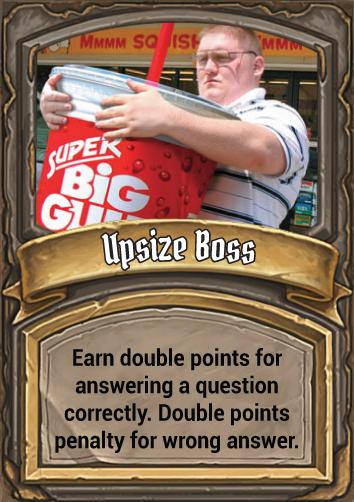
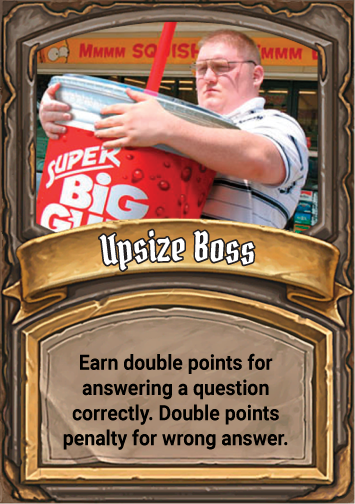
update cards and password functionality

diff --git a/css/style.css b/css/style.css
@@ -1,2 +1,3 @@
-.description,.control{text-align:center}.element-item img{margin:5px}.grid{margin:auto;width:210px}@media (min-width: 466px){.grid{width:420px}}@media (min-width: 675px){.grid{width:630px}}@media (min-width: 992px){.grid{width:840px}}@media (min-width: 1200px){.grid{width:1050px}}#cards .btn{margin-bottom:10px}.circle{position:relative;width:300px;margin:0 auto;margin-top:20px}.circle #timer{position:absolute;top:50%;left:50%;-webkit-transform:translateY(-50%) translateX(-50%);transform:translateY(-50%) translateX(-50%)}#bingo .carousel-control{width:50px}#bingo .carousel-control>.fa{position:absolute;top:200px;color:#00bc8c;text-shadow:none;font-size:2em}#bingo .carousel-control.right,#bingo .carousel-control.left{background-image:none}#bingo .carousel-control.right>.fa{right:15px}#bingo .carousel-control.left>.fa{left:15px}#bingo .question-container{width:80%;margin:0 auto;min-height:300px;font-size:23px;padding:20px}#bingo .start-bingo{text-align:center;padding:60px;height:300px}#bingo .start-bingo>img{display:inline;width:50%}#last-round .modal-dialog{font-family:'Montserrat', sans-serif;width:100%}@media (min-width: 481px){#last-round .modal-dialog{width:90%}}@media (min-width: 768px){#last-round .modal-dialog{width:80%}}@media (min-width: 992px){#last-round .modal-dialog{width:70%}}@media (min-width: 1200px){#last-round .modal-dialog{width:60%}}#last-round .modal-content{box-shadow:none;border-radius:0;background:transparent;border-width:0}#last-round .modal-body{color:#fff;font-size:26px;text-align:left}@media (max-width: 580px){#last-round .modal-body{font-size:16px}}#last-round .modal-body>.alert{margin-bottom:0;border-bottom-right-radius:0;border-bottom-left-radius:0}#last-round .modal-body hr{border-color:#636363}#last-round .modal-footer{border:none}.modal-backdrop{background-color:#000000}.modal-backdrop.in{opacity:0.8}.title{position:relative;padding:30px;padding-right:80px;margin-top:0}.title:before{content:"";display:block;position:absolute;top:0;left:0;right:0;bottom:0;background:rgba(0,0,0,0.5)}.title span{position:relative}.title .score,.title .scored{position:absolute;right:15px;top:50%;-webkit-transform:translateY(-50%);transform:translateY(-50%);font-weight:bold;background:#F39C12;border-radius:50%;line-height:50px;width:50px;text-align:center}.title.bg1{background:url(../img/bg/1.png) 50% 0 no-repeat;background-size:cover}.title.bg2{background:url(../img/bg/2.png) 50% 0 no-repeat;background-size:cover}.title.bg3{background:url(../img/bg/3.png) 50% 0 no-repeat;background-size:cover}.title.bg4{background:url(../img/bg/4.png) 50% 0 no-repeat;background-size:cover}.multiplechoices{list-style-type:lower-latin}.multiplechoices label{display:list-item}.multiplechoices input[type=checkbox]{display:none}.multiplechoices input[type=checkbox].true:checked+span{color:#00bc8c}.multiplechoices input[type=checkbox].false:checked+span{color:#E74C3C;text-decoration:line-through}.chance-options ul{-webkit-columns:3;-moz-columns:3;columns:3;color:#fff}.chance-options li{font-size:1.3em}.chance-options li:first-child{margin-top:0}.chance-options input[type=checkbox]{margin-top:6px}.type{text-transform:uppercase}.info{display:block;margin-top:10px;font-size:18px}.info .one,.info .two{color:#fff;display:inline-block;background:#375a7f;padding:5px 10px;border-radius:3px}.info .one:empty,.info .two:empty{padding:0}#last-round .btnRound{border-radius:50%;padding:0;line-height:61px;width:65px}@media (max-width: 640px){#last-round .btnRound{line-height:48px;width:52px}}@media (max-width: 510px){#last-round>br{display:none}}.retain{background:#00bc8c !important}.passed{position:relative;overflow:hidden}.passed:after{content:'\f00c';font-family:'FontAwesome';display:block;position:absolute;top:50%;left:50%;background:inherit;-webkit-transform:translateX(-50%) translateY(-50%);transform:translateX(-50%) translateY(-50%);width:50px;line-height:50px;border-radius:50%;font-size:1.6em}.question>img{padding-right:10px;max-width:100%;height:auto}@media (max-width: 480px){.question>img{padding:0;width:100%;height:auto}}label:hover{cursor:pointer}#bonus{font-size:1.6em}#bonus .modal-body{text-align:left}.cardslot{text-align:center}#bonus .modal-header{color:#fff;background:#F39C12;border-bottom:none}#bonus .dice{height:250px;background:url(../img/bg/dice.png) no-repeat 50% 0;background-size:cover;margin:-20px;margin-bottom:20px}.logo{margin-top:30px;margin-bottom:30px}
[1 lines of base64/hex data omitted]
+.description,.control{text-align:center}.element-item img{margin:5px}.grid{margin:auto;width:210px}@media (min-width: 466px){.grid{width:420px}}@media (min-width: 675px){.grid{width:630px}}@media (min-width: 992px){.grid{width:840px}}@media (min-width: 1200px){.grid{width:1050px}}#cards .btn{margin-bottom:10px}.circle{position:relative;width:300px;margin:0 auto;margin-top:20px}.circle #timer{position:absolute;top:50%;left:50%;-webkit-transform:translateY(-50%) translateX(-50%);transform:translateY(-50%) translateX(-50%)}#bingo .carousel-control{width:50px}#bingo .carousel-control>.fa{position:absolute;top:200px;color:#00bc8c;text-shadow:none;font-size:2em}#bingo .carousel-control.right,#bingo .carousel-control.left{background-image:none}#bingo .carousel-control.right>.fa{right:15px}#bingo .carousel-control.left>.fa{left:15px}#bingo .question-container{width:80%;margin:0 auto;min-height:300px;font-size:23px;padding:20px}#bingo .start-bingo{height:300px}#bingo .start-bingo>img{margin-top:30px}@media (max-width: 991px){#bingo .start-bingo>img{width:80%}}#last-round .modal-dialog{font-family:'Montserrat', sans-serif;width:100%}@media (min-width: 481px){#last-round .modal-dialog{width:90%}}@media (min-width: 768px){#last-round .modal-dialog{width:80%}}@media (min-width: 992px){#last-round .modal-dialog{width:70%}}@media (min-width: 1200px){#last-round .modal-dialog{width:60%}}#last-round .modal-content{box-shadow:none;border-radius:0;background:transparent;border-width:0}#last-round .modal-body{color:#fff;font-size:26px;text-align:left}@media (max-width: 580px){#last-round .modal-body{font-size:16px}}#last-round .modal-body>.alert{margin-bottom:0;border-bottom-right-radius:0;border-bottom-left-radius:0}#last-round .modal-body hr{border-color:#636363}#last-round .modal-footer{border:none}.modal-backdrop{background-color:#000000}.modal-backdrop.in{opacity:0.8}.title{position:relative;padding:30px;padding-right:80px;margin-top:0}.title:before{content:"";display:block;position:absolute;top:0;left:0;right:0;bottom:0;background:rgba(0,0,0,0.5)}.title span{position:relative}.title .score,.title .scored{position:absolute;right:15px;top:50%;-webkit-transform:translateY(-50%);transform:translateY(-50%);font-weight:bold;background:#F39C12;border-radius:50%;line-height:50px;width:50px;text-align:center}.title.bg1{background:url(../img/bg/1.png) 50% 0 no-repeat;background-size:cover}.title.bg2{background:url(../img/bg/2.png) 50% 0 no-repeat;background-size:cover}.title.bg3{background:url(../img/bg/3.png) 50% 0 no-repeat;background-size:cover}.title.bg4{background:url(../img/bg/4.png) 50% 0 no-repeat;background-size:cover}.multiplechoices{list-style-type:lower-latin}.multiplechoices label{display:list-item}.multiplechoices input[type=checkbox]{display:none}.multiplechoices input[type=checkbox].true:checked+span{color:#00bc8c}.multiplechoices input[type=checkbox].false:checked+span{color:#E74C3C;text-decoration:line-through}.chance-options ul{-webkit-columns:3;-moz-columns:3;columns:3;color:#fff}.chance-options li{font-size:1.3em}.chance-options li:first-child{margin-top:0}.chance-options input[type=checkbox]{margin-top:6px}.type{text-transform:uppercase}.info{display:block;margin-top:10px;font-size:18px}.info .one,.info .two{color:#fff;display:inline-block;background:#375a7f;padding:5px 10px;border-radius:3px}.info .one:empty,.info .two:empty{padding:0}#last-round .btnRound{border-radius:50%;padding:0;line-height:61px;width:65px}@media (max-width: 640px){#last-round .btnRound{line-height:48px;width:52px}}@media (max-width: 510px){#last-round>br{display:none}}.retain{background:#00bc8c !important}.passed{position:relative;overflow:hidden}.passed:after{content:'\f00c';font-family:'FontAwesome';display:block;position:absolute;top:50%;left:50%;background:inherit;-webkit-transform:translateX(-50%) translateY(-50%);transform:translateX(-50%) translateY(-50%);width:50px;line-height:50px;border-radius:50%;font-size:1.6em}.question>img{padding-right:10px;max-width:100%;height:auto}@media (max-width: 480px){.question>img{padding:0;width:100%;height:auto}}label:hover{cursor:pointer}#bonus{font-size:1.6em}#bonus .modal-body{text-align:left}.cardslot{text-align:center}#bonus .modal-header{color:#fff;background:#F39C12;border-bottom:none}#bonus .dice{height:250px;background:url(../img/bg/dice.png) no-repeat 50% 0;background-size:cover;margin:-20px;margin-bottom:20px}.logo{margin-top:30px;margin-bottom:30px}
+
[1 lines of base64/hex data omitted]

diff --git a/_layouts/default.html b/_layouts/default.html
@@ -14,7 +14,7 @@
       .hide{
         display:block!important;
       }
-      .mcq .true + span, .truefalse .true + span{
+      .mcq .true + span, .truefalse .true + span, .multiplechoices .true + span{
         color:#00bc8c!important;
       }
       .hidden-answer{
@@ -24,7 +24,29 @@
   {% endif %}
 </head>
 <body>
-  {{content}}
+  <div class="container">
+    <div class="row">
+      <div class="col-sm-6 col-sm-push-3">
+        <div class="password well">
+          <h4 style="margin-top:0">Password Cuy?</h4>
+          <form class="form-horizontal">
+            <div class="form-group">
+              <label class="col-sm-4 control-label">Password</label>
+              <div class="col-sm-8">
+                <input type="password" class="form-control" id="password" data-pass="siacuy">
+              </div>
+            </div>
+            <div class="form-group">
+              <div class="col-sm-offset-4 col-sm-8">
+                <a href="#" class="btn btn-default" id="submit">Submit</a>
+              </div>
+            </div>
+          </form>
+        </div>
+      </div>
+    </div>
+  </div>
+  <div id="wrapper" class="hidden-answer hide">{{content}}</div>
   <script type="text/javascript" src="//ajax.googleapis.com/ajax/libs/jquery/1.10.2/jquery.min.js"></script>
   <script type="text/javascript" src="https://maxcdn.bootstrapcdn.com/bootstrap/3.3.5/js/bootstrap.min.js"></script>
   <script src='http://cdnjs.cloudflare.com/ajax/libs/jquery.isotope/2.2.1/isotope.pkgd.min.js'></script>

diff --git a/_scss/_bingo.scss b/_scss/_bingo.scss
@@ -5,8 +5,6 @@
     >.fa{
       position: absolute;
       top:200px;
-      //top:50%;
-      //transform:translateY(-50%);
       color: $brand-success;
       text-shadow:none;
       font-size: 2em;
@@ -29,12 +27,12 @@
     padding:20px;
   }
   .start-bingo{
-    text-align: center;
-    padding:60px;
     height: 300px;
     >img{
-      display:inline;
-      width:50%;
+      margin-top: 30px;
+      @media(max-width:991px){
+        width: 80%;
+      }
     }
   }
 }

diff --git a/js/index.js b/js/index.js
@@ -110,6 +110,16 @@ $(document).ready(function(){
     });
   });
 
-  
-
+  //PASSWORD
+  $('#submit').on('click',function(){
+    var $password = $("#password");
+    var $parent = $(this).closest('.password');
+    var pass = $password.data('pass');
+    console.log($password.val());
+    if($password.val()===pass){
+      $("#wrapper").removeClass('hidden-answer hide');
+      $parent.remove();
+      $(".control>a:first").click();
+    }
+  });
 });

diff --git a/_includes/bingo.html b/_includes/bingo.html
@@ -8,7 +8,7 @@
     <!-- Wrapper for slides -->
     <div class="carousel-inner" role="listbox">
       <div class="item active start-bingo">
-        <img src="img/bg/bingostart-05.png">
+        <img class="img-responsive center-block" src="img/bg/bingostart-05.png">
       </div>
       {% for question in site.data.bingo %}
       <div class="item">
